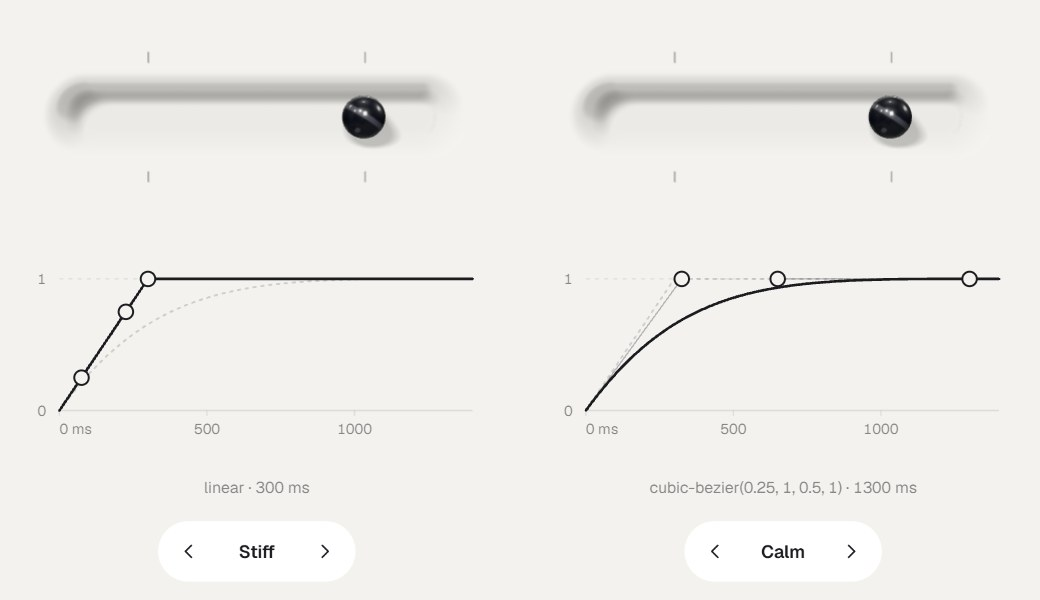
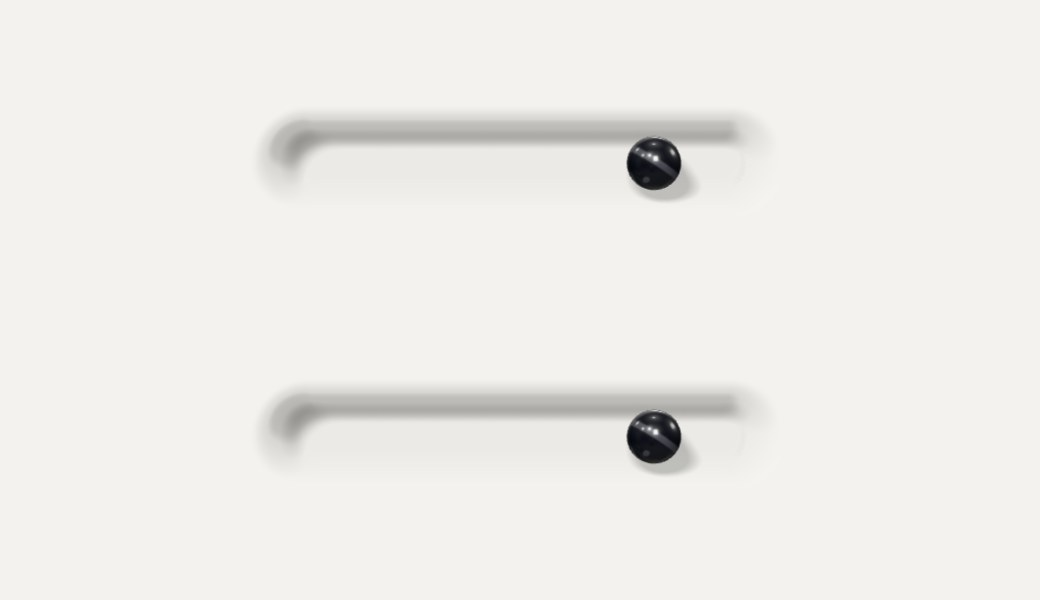
Lab: Easing - the two motions now one under the other with nothing else on the stage (no pills, arrows or tick marks): a ball in a soft groove each, Play and loop below; a Curves card at the side holds each one's preset (Stiff, Snappy, Bounce, Calm, Custom after an edit), its curve with handles on o

diff --git a/lab-board/pieces/easing/index.html b/lab-board/pieces/easing/index.html
@@ -10,9 +10,10 @@
 <link href="https://fonts.googleapis.com/css2?family=Geist:wght@400..700&display=swap" rel="stylesheet">
 <link rel="stylesheet" href="../../shared/lab-ui.css?v=21">
 <style>
-  /* Two curves side by side, to see the difference. Each column: a ball rolling on a rail (real 3D, three.js), the curve under it
-     (value over time on a time axis both share, the neighbour's curve faint behind) and a preset pill: Stiff, Snappy, Bounce, Calm,
-     and Custom once you grab the curve. One Play runs both at once. The timed curves are cubic-beziers with a length: two handles
+  /* Two motions one under the other, to see the difference: each a ball in a soft groove (real 3D, three.js), nothing else on the
+     stage. The Curves card at the side holds the rest: each one's preset (Stiff, Snappy, Bounce, Calm, and Custom once you grab its
+     curve), the curve itself (value over time on a time axis both share, the neighbour faint behind), its numbers and Copy CSS. One
+     Play runs both at once. The timed curves are cubic-beziers with a length: two handles
      and an end you drag for the time; the spring has one handle on its peak (up and down: bounce; sideways: speed). */
   :root { --bg: #f3f2ee; --ink: #1b1c20; --muted: rgba(27,28,32,.5); --line: rgba(27,28,32,.1); --field: rgba(20,20,20,.05); --ease: cubic-bezier(.22,.61,.36,1); --k: 1; }
   * { box-sizing: border-box; -webkit-tap-highlight-color: transparent; }
@@ -28,13 +29,12 @@
   body.dark .back, body.dark .mode { background: #1c1c1f; color: #f2f2f0; }
   body.dark .mode button { color: rgba(255,255,255,.5); } body.dark .mode button[aria-checked=true] { background: #f2f2f0; color: #1b1c20; }
 
-  /* the rig: two columns at a fixed size, scaled to the window (--k); on a tall narrow screen one above the other */
-  .rig { position: fixed; left: 50%; top: calc(50% - 30px); translate: -50% -50%; scale: var(--k); display: grid; grid-template-columns: 360px 360px; gap: 40px; }
-  body.stack .rig { grid-template-columns: 360px; gap: 24px; }
-  .col { display: flex; flex-direction: column; align-items: center; }
+  /* the rig: the two grooves one under the other, nothing else, at a fixed size scaled to the window (--k) */
+  .rig { position: fixed; left: 50%; top: calc(50% - 30px); translate: -50% -50%; scale: var(--k); display: grid; grid-template-columns: 360px; gap: 16px; transition: left var(--morph); }
+  .col { display: flex; flex-direction: column; align-items: center; gap: 6px; }
   .scene { position: relative; width: 360px; height: 150px; cursor: pointer; }
   .scene canvas { display: block; width: 360px; height: 150px; }   /* (clear: the groove is cut into the page itself) */
-  .chart { display: block; width: 360px; height: 190px; overflow: visible; touch-action: none; user-select: none; -webkit-user-select: none; }
+  .chart { display: block; width: 100%; height: auto; overflow: visible; touch-action: none; user-select: none; -webkit-user-select: none; }
   .chart .guide { stroke: var(--line); stroke-width: 1; fill: none; } .chart .guide.one { stroke-dasharray: 3 4; }
   .chart text { fill: var(--muted); font: 11px var(--lab-font); font-variant-numeric: tabular-nums; }
   .chart .curve { stroke: var(--ink); stroke-width: 2; fill: none; stroke-linecap: round; stroke-linejoin: round; }
@@ -43,25 +43,45 @@
   .chart .h { cursor: grab; outline: none; } .chart .h .hit { fill: transparent; } .chart .h .ring { fill: var(--bg); stroke: var(--ink); stroke-width: 1.5; transition: r .18s var(--ease); }
   .chart .h:hover .ring, .chart .h:focus-visible .ring, .chart .h.on .ring { r: 7.5px; } .chart .h.on { cursor: grabbing; } .chart .h:focus-visible .ring { stroke-width: 2.5; }
   .chart .tdot { fill: var(--ink); } .chart .tline { stroke: var(--ink); stroke-opacity: .16; stroke-width: 1; }
-  .foot { display: flex; align-items: center; justify-content: center; gap: 8px; height: 28px; margin: 2px 0 12px; }
-  .spec { font-size: 12px; color: var(--muted); white-space: nowrap; font-variant-numeric: tabular-nums; }
+  .foot { display: flex; align-items: center; justify-content: space-between; gap: 10px; margin: 0 0 6px; }
+  .spec { font-size: 12px; line-height: 1.4; color: var(--muted); font-variant-numeric: tabular-nums; }
+  .copy { flex: none; }
   .copy { height: 24px; padding: 0 9px; border: 0; border-radius: 999px; background: var(--field); color: var(--ink); font: 500 11.5px var(--lab-font); cursor: pointer; transition: background .2s; }
   .copy:hover { background: rgba(20,20,20,.09); } body.dark .copy:hover { background: rgba(255,255,255,.12); }
   /* Play both, and beside it the loop switch (there and back, a beat at each end, until it is switched off) */
-  .ctrl { position: fixed; left: 50%; bottom: calc(22px + env(safe-area-inset-bottom)); translate: -50% 0; z-index: 4; display: flex; gap: 8px; }
+  .ctrl { position: fixed; left: 50%; bottom: calc(22px + env(safe-area-inset-bottom)); translate: -50% 0; z-index: 4; display: flex; gap: 8px; transition: left var(--morph); }
   .loop { display: grid; place-items: center; width: 46px; height: 46px; padding: 0; border: 0; border-radius: 999px; background: #fff; color: #1b1c20; cursor: pointer; transition: background .25s, color .25s, scale .25s var(--ease); }
   .loop:active { scale: .93; } .loop svg { width: 19px; height: 19px; } .loop[aria-pressed=true] { background: var(--ink); color: var(--bg); }
   body.dark .loop { background: #1c1c1f; color: #f2f2f0; } body.dark .loop[aria-pressed=true] { background: var(--ink); color: var(--bg); }
   .play { display: flex; align-items: center; gap: 9px; height: 46px; padding: 0 22px 0 18px; border: 0; border-radius: 999px;
     background: var(--ink); color: var(--bg); font: 600 14px var(--lab-font); cursor: pointer; transition: scale .25s var(--ease); }
   .play:active { scale: .95; } .play svg { width: 15px; height: 15px; }
-  body.bare .back, body.bare .mode, body.bare .ctrl, body.bare .copy { display: none; } body.bare .rig { top: 50%; }
+  /* Curves: a card beside the stage (lab-ui soft) with the two charts, their numbers and Copy CSS; the stage moves aside */
+  :root { --morph: .55s cubic-bezier(.3,1.12,.4,1); }
+  .tune { position: fixed; top: 16px; right: 16px; z-index: 6; display: flex; align-items: center; gap: 9px; height: 46px; padding: 0 20px 0 16px; border: 0; border-radius: 999px; background: #fff; color: #1b1c20; font: 600 14px var(--lab-font); cursor: pointer; transition: transform .2s var(--ease), opacity .2s; }
+  .tune:hover { transform: translateY(-1px); } .tune svg { width: 19px; height: 19px; } body.tuning .tune { opacity: 0; pointer-events: none; } body.dark .tune { background: #1c1c1f; color: #f2f2f0; }
+  .panel { position: fixed; top: 16px; right: 16px; bottom: 16px; width: 340px; z-index: 5; display: flex; flex-direction: column; overflow: auto; overscroll-behavior: contain; padding: 0 20px 14px; --ui-pad: 20px;
+    font-family: var(--lab-font); border-radius: 26px; border: 1px solid var(--ui-card-line, rgba(20,20,20,.08)); opacity: 0; translate: 24px 0; visibility: hidden;
+    transition: translate var(--morph), opacity .3s, visibility 0s .55s; }
+  body.tuning .panel { opacity: 1; translate: 0 0; visibility: visible; transition: translate var(--morph), opacity .35s .08s; }
+  .panel::-webkit-scrollbar { width: 0; }
+  .ph { position: sticky; top: 0; z-index: 3; display: flex; align-items: flex-start; justify-content: space-between; gap: 16px; margin: 0 -20px; padding: 22px 20px 6px; background: var(--ui-bg); }
+  .ph h2 { margin: 0; font-size: 17px; font-weight: 600; letter-spacing: -.01em; line-height: 1.2; } .ph p { margin: 10px 0 0; font-size: 13px; line-height: 1.45; color: var(--ui-muted); }
+  .pc { flex: none; width: 32px; height: 32px; margin: -4px -6px 0 0; display: grid; place-items: center; border: 0; border-radius: 999px; background: transparent; color: var(--ui-ink); cursor: pointer; transition: background .2s; } .pc:hover { background: var(--ui-field); } .pc svg { width: 18px; height: 18px; }
+  .pcol h3 { margin: 18px 0 2px; font-size: 14px; font-weight: 600; }
+  .pcol + .pcol { border-top: 1px solid var(--line); margin-top: 8px; }
+  .mode { transition: left var(--morph); }
+  @media (min-width: 761px) { body.tuning .rig, body.tuning .ctrl, body.tuning .mode { left: calc(50% - 176px); } }
+  @media (max-width: 760px) { .panel { top: auto; left: 8px; right: 8px; bottom: 8px; width: auto; max-height: 60vh; translate: 0 calc(100% + 16px); } body.tuning .panel { translate: 0 0; } body.tuning .ctrl { display: none; } }
+  body.bare .back, body.bare .mode, body.bare .ctrl, body.bare .tune, body.bare .panel { display: none; } body.bare .rig { top: 50%; }
 </style>
 </head>
 <body>
 <a class="back" href="../../" aria-label="Back to the lab" title="Back to the lab"><svg viewBox="0 0 24 24" fill="none" stroke="currentColor" stroke-width="1.75" stroke-linecap="round" stroke-linejoin="round" aria-hidden="true"><path d="M19 12H5M11 18l-6-6 6-6"/></svg></a>
 <div class="mode lab-seg" id="mode" role="radiogroup" aria-label="Light or dark"><button type="button" role="radio" data-m="light">Light</button><button type="button" role="radio" data-m="dark">Dark</button></div>
+<button class="tune" id="tune" type="button" aria-controls="panel" aria-expanded="false"><svg viewBox="0 0 24 24" fill="none" stroke="currentColor" stroke-width="1.75" stroke-linecap="round" stroke-linejoin="round" aria-hidden="true"><path d="M3 20c4 0 5-16 9-16s5 16 9 16"/></svg>Curves</button>
 <main class="rig" id="rig"></main>
+<aside class="panel lab-ui soft" id="panel" aria-label="Curves"><header class="ph"><div><h2>Curves</h2><p>Value over time, both on one time axis. Grab a handle to make your own.</p></div><button class="pc" id="pclose" type="button" aria-label="Close"><svg viewBox="0 0 24 24" fill="none" stroke="currentColor" stroke-width="1.75" stroke-linecap="round" aria-hidden="true"><path d="M6 6l12 12M18 6L6 18"/></svg></button></header><div id="charts"></div></aside>
 <div class="ctrl"><button class="play" id="play" type="button" title="Play both (Space)"><svg viewBox="0 0 24 24" fill="currentColor" aria-hidden="true"><path d="M8 5.5v13a1 1 0 0 0 1.5.86l10.4-6.5a1 1 0 0 0 0-1.72L9.5 4.64A1 1 0 0 0 8 5.5z"/></svg>Play both</button><button class="loop" id="loop" type="button" aria-pressed="false" aria-label="Loop" title="Loop"><svg viewBox="0 0 24 24" fill="none" stroke="currentColor" stroke-width="1.75" stroke-linecap="round" stroke-linejoin="round" aria-hidden="true"><path d="M17 2.5l3 3-3 3"/><path d="M4 11.5v-1a5 5 0 0 1 5-5h11"/><path d="M7 21.5l-3-3 3-3"/><path d="M20 12.5v1a5 5 0 0 1-5 5H4"/></svg></button></div>
 <script src="../../shared/lab-ui.js?v=20"></script>
 <script type="importmap">
@@ -110,21 +130,17 @@ function css(c) { if (c.kind === 'bezier') { const [a, b, d, e] = c.b; return `t
 const NS = 'http://www.w3.org/2000/svg';
 const X0 = 30, X1 = 344, Y0 = 168, Y1 = 68, U = Y0 - Y1;   // (the plot: 0 ms → X0, the shared axis → X1; value 0 → Y0, 1 → Y1)
 const cols = [0, 1].map(i => { const el = document.createElement('section'); el.className = 'col'; el.innerHTML = `
-  <div class="scene" title="Play both"><canvas></canvas></div>
+  <div class="scene" title="Play both"><canvas></canvas></div>`; $('rig').appendChild(el);
+  const pc = document.createElement('section'); pc.className = 'pcol'; pc.innerHTML = `<h3 class="pt">${i ? 'Bottom' : 'Top'}</h3><div class="pseg"></div>
   <svg class="chart" viewBox="0 20 360 190" aria-label="Curve ${i ? 'B' : 'A'}">
     <line class="guide" x1="${X0}" y1="${Y0}" x2="${X1}" y2="${Y0}"/><line class="guide one" x1="${X0}" y1="${Y1}" x2="${X1}" y2="${Y1}"/>
     <text x="${X0 - 10}" y="${Y0 + 4}" text-anchor="end">0</text><text x="${X0 - 10}" y="${Y1 + 4}" text-anchor="end">1</text>
     <g class="ticks"></g><path class="ghost"/><path class="curve"/><g class="arms"></g>
     <line class="tline" y1="0" y2="${Y0}"/><circle class="tdot" r="4.5"/><g class="hs"></g>
   </svg>
-  <div class="foot"><span class="spec"></span><button class="copy" type="button">Copy CSS</button></div>
-  <div class="vars" role="group" aria-label="Preset ${i ? 'B' : 'A'}">
-    <button class="pv" type="button" aria-label="Previous preset"><svg viewBox="0 0 24 24" fill="none" stroke="currentColor" stroke-width="1.75" stroke-linecap="round" stroke-linejoin="round" aria-hidden="true"><path d="M15 6l-6 6 6 6"/></svg></button>
-    <span class="vn"></span>
-    <button class="nx" type="button" aria-label="Next preset"><svg viewBox="0 0 24 24" fill="none" stroke="currentColor" stroke-width="1.75" stroke-linecap="round" stroke-linejoin="round" aria-hidden="true"><path d="M9 6l6 6-6 6"/></svg></button>
-  </div>`; $('rig').appendChild(el);
-  const g = s => el.querySelector(s);
-  return { el, svg: g('.chart'), curve: g('.curve'), ghost: g('.ghost'), arms: g('.arms'), hs: g('.hs'), ticks: g('.ticks'), tdot: g('.tdot'), tline: g('.tline'), spec: g('.spec'), vars: g('.vars'), nm: g('.vn'), canvas: g('canvas'), scene: g('.scene'), copy: g('.copy') }; });
+  <div class="foot"><span class="spec"></span><button class="copy" type="button">Copy CSS</button></div>`; $('charts').appendChild(pc);
+  const g = s => el.querySelector(s) || pc.querySelector(s);
+  return { el, svg: g('.chart'), curve: g('.curve'), ghost: g('.ghost'), arms: g('.arms'), hs: g('.hs'), ticks: g('.ticks'), tdot: g('.tdot'), tline: g('.tline'), spec: g('.spec'), seg: g('.pseg'), canvas: g('canvas'), scene: g('.scene'), copy: g('.copy'), pt: g('.pt') }; });
 
 // (the time axis both charts share, rounded up; frozen while a handle is held so the curve under the finger does not slide)
 let axis = 1000, frozen = false;
@@ -148,11 +164,11 @@ function drawChart(i) { const C = cols[i], c = cur(i);
       node('circle', { class: 'hit', r: 16 }, n); node('circle', { class: 'ring', r: 5.5 }, n); }
     n.setAttribute('transform', `translate(${tx(h.ms).toFixed(1)} ${ty(h.v).toFixed(1)})`); n.setAttribute('aria-valuetext', spec(c)); });
   C.hs.querySelectorAll('.h').forEach(n => { if (!H.some(h => h.id === n.dataset.h)) n.remove(); });
-  C.spec.textContent = spec(c); C.nm.textContent = c.name; }
+  C.spec.textContent = spec(c); }
 function drawAll() { if (!frozen) axis = niceAxis(); drawChart(0); drawChart(1); drawTrace(performance.now()); }
 
 // ---------- grabbing a curve: the first move makes the column's own copy (Custom), so the preset stays as it was ----------
-function own(i) { const col = S.cols[i]; if (col.key !== 'custom') { col.custom = { ...structuredClone(PRESETS[col.key]), name: 'Custom' }; col.key = 'custom'; } return col.custom; }
+function own(i) { const col = S.cols[i]; if (col.key !== 'custom') { col.custom = { ...structuredClone(PRESETS[col.key]), name: 'Custom' }; col.key = 'custom'; presetSeg(i); } return col.custom; }
 function moveHandle(i, id, ms, v) { const c = own(i);
   if (id === 'peak') fromPeak(c, ms, v);
   else if (id === 'end') c.ms = clamp(Math.round(ms / 10) * 10, 60, 3000);
@@ -170,11 +186,11 @@ cols.forEach((C, i) => {
     const m = e.shiftKey ? 10 : 1, now = handles(cur(i)).find(x => x.id === h.dataset.h); moveHandle(i, now.id, now.ms + d[0] * 10 * m, now.v + d[1] * .01 * m); });
   C.copy.onclick = () => { navigator.clipboard?.writeText(css(cur(i))); C.copy.textContent = 'Copied'; setTimeout(() => C.copy.textContent = 'Copy CSS', 1200); };
   C.scene.onclick = () => play(false);
-  // (the preset pill: the four, and Custom once the curve was grabbed)
-  const names = () => [...KEYS.map(k => PRESETS[k].name), ...(S.cols[i].custom ? ['Custom'] : [])], keyOf = n => n === 'Custom' ? 'custom' : KEYS.find(k => PRESETS[k].name === n);
-  const pick = n => { S.cols[i].key = keyOf(n); save(); drawAll(); play(true); };
-  C.V = LabUI.variants(C.vars, { prev: C.el.querySelector('.pv'), next: C.el.querySelector('.nx'), name: C.nm, items: names, current: () => cur(i).name,
-    onStep: d => { const l = names(); pick(l[(l.indexOf(cur(i).name) + d + l.length) % l.length]); }, onPick: pick }); });
+  presetSeg(i); });
+// (the preset, in the card above its chart: the four, and Custom once the curve was grabbed; rebuilt when Custom appears)
+function presetSeg(i) { const C = cols[i]; C.seg.innerHTML = '';
+  const options = [...KEYS.map(k => [k, PRESETS[k].name]), ...(S.cols[i].custom ? [['custom', 'Custom']] : [])];
+  C.segKeys = options.length; LabUI.seg(C.seg, { label: 'Preset', options, value: S.cols[i].key, onChange: k => { S.cols[i].key = k; save(); drawAll(); play(true); } }); }
 
 // ---------- playing: both columns from one clock; there, and on the next, back ----------
 let t0 = -1e9, dir = 0;   // (dir 1: going to the end; the ball's value is the progress, or one minus it on the way back)
@@ -202,7 +218,7 @@ addEventListener('keydown', e => { if (e.code === 'Space' && !e.target.closest('
 // rounded channel with no edge anywhere (its slope is zero at the wall and at the bottom; the ends round off by themselves). Its
 // shading is computed per point and baked in: how it turns to the light, how deep it is, and a soft shadow of its own upper lip,
 // marched along the light; the flat wall comes out exactly the page's colour, so there is no seam. A glossy ball sits in it, lit
-// for real, throwing a very soft shadow. Small scored ticks above and below mark start and end; the groove runs on past them,
+// for real, throwing a very soft shadow. The groove runs on past where the ball starts and stops,
 // room for a spring to overshoot ----------
 const scenes = [];
 let THREE = null;
@@ -252,9 +268,6 @@ function makeScene(canvas) {
   const surf = new THREE.Mesh(geo, new THREE.MeshBasicMaterial({ vertexColors: true, toneMapped: false }));
   const skin = new THREE.Mesh(geo, new THREE.ShadowMaterial({ opacity: .2, polygonOffset: true, polygonOffsetFactor: -1, polygonOffsetUnits: -1 })); skin.receiveShadow = true;
   scene.add(surf, skin);
-  // (the ticks: short scores on the wall above and below the groove, at start and at end)
-  const tickMat = new THREE.MeshBasicMaterial({ transparent: true, opacity: .28, depthWrite: false }), tg = new THREE.PlaneGeometry(.02, .12);
-  for (const x of [XA, XB]) for (const y of [-1, 1]) { const t = new THREE.Mesh(tg, tickMat); t.position.set(x, y * (WO + .14), .002); scene.add(t); }
   // (the ball: in the groove against its bottom; it rolls about the axis pointing at you)
   const ballMat = new THREE.MeshPhysicalMaterial({ roughness: .28, clearcoat: 1, clearcoatRoughness: .06, metalness: 0 });
   const ball = new THREE.Mesh(new THREE.SphereGeometry(R, 64, 40), ballMat); ball.castShadow = true; ball.position.set(XA, 0, R - DP + .004); scene.add(ball);
@@ -262,22 +275,25 @@ function makeScene(canvas) {
   const S3 = {
     set(nv) { v = nv; const x = XA + (XB - XA) * roomy(v); ball.position.x = x; ball.rotation.z = -(x - XA) / R; renderer.render(scene, cam); },
     theme(dark) { shade(geo, dark); sky.groundColor.set(dark ? 0x0e0e10 : 0xf3f2ee); sun.intensity = dark ? 2.2 : 1.6;
-      tickMat.color.set(dark ? 0xf2f2f0 : 0x1b1c20); tickMat.opacity = dark ? .3 : .28; skin.material.opacity = dark ? .55 : .2;
+      skin.material.opacity = dark ? .55 : .2;
       ballMat.map?.dispose(); ballMat.map = ballTexture(dark); ballMat.needsUpdate = true; S3.set(v); },
     size(px) { renderer.setPixelRatio(px); renderer.setSize(360, 150, false); S3.set(v); } };
   return S3; }
 if (THREE) cols.forEach(C => { try { scenes.push(makeScene(C.canvas)); } catch { } });
 
 // ---------- light and dark, the fit ----------
-function setMode(m) { S.mode = m; save(); const dark = m === 'dark'; document.body.classList.toggle('dark', dark); cols.forEach(C => C.vars.classList.toggle('dark', dark)); scenes.forEach(s => s.theme(dark));
+function setMode(m) { S.mode = m; save(); const dark = m === 'dark'; document.body.classList.toggle('dark', dark); $('panel').classList.toggle('dark', dark); scenes.forEach(s => s.theme(dark));
   document.querySelectorAll('#mode button').forEach(b => b.setAttribute('aria-checked', String(b.dataset.m === m))); document.querySelector('meta[name=theme-color]').content = dark ? '#0e0e10' : '#f3f2ee'; drawAll(); }
 document.querySelectorAll('#mode button').forEach(b => b.onclick = () => setMode(b.dataset.m));
-function fit() { const W = innerWidth, H = innerHeight, bare = document.body.classList.contains('bare'), stack = !bare && W < 640 && H > W;
-  document.body.classList.toggle('stack', stack);
-  const rw = stack ? 360 : 760, rh = stack ? 2 * 434 + 24 : 434;
-  const k = bare ? Math.min(W / (rw + 30), H / (rh + 10)) : clamp(Math.min((W - 32) / rw, (H - 150) / rh), .35, 1.5);
+// (the rows fit what is left of the window; with Curves open on a wide screen, what is left beside the card)
+function fit() { const bare = document.body.classList.contains('bare'), side = document.body.classList.contains('tuning') && innerWidth > 760, W = innerWidth - (side ? 368 : 0), H = innerHeight;
+  const rw = 360, rh = 2 * 150 + 16;
+  const k = bare ? Math.min(W / (rw + 30), H / (rh + 48)) : clamp(Math.min((W - 40) / rw, (H - 170) / rh), .35, 1.6);
   document.documentElement.style.setProperty('--k', k.toFixed(3)); scenes.forEach(s => s.size(Math.min(3, (devicePixelRatio || 1) * k))); }
 addEventListener('resize', fit);
+function openPanel(on) { document.body.classList.toggle('tuning', on); $('tune').setAttribute('aria-expanded', String(on)); fit(); }
+$('tune').onclick = () => openPanel(true); $('pclose').onclick = () => openPanel(false);
+addEventListener('keydown', e => { if (e.key === 'Escape' && document.body.classList.contains('tuning')) openPanel(false); });
 LabUI.segThumb($('mode'));
 
 // ---------- the board's box: ?thumb=1 the still (Snappy and Bounce, both arrived), ?demo=1 the live preview: pairs of presets
@@ -287,7 +303,7 @@ setMode(S.mode); fit(); drawAll(); scenes.forEach((s, i) => s.set(0)); $('loop')
 if (q.has('thumb')) { t0 = performance.now() - 5000; dir = 1; drawTrace(performance.now()); scenes.forEach((s, i) => s.set(1)); }
 if (q.has('demo')) { const wait = ms => new Promise(r => setTimeout(r, ms)), PAIRS = [['stiff', 'calm'], ['snappy', 'bounce'], ['stiff', 'bounce'], ['snappy', 'calm']];
   await document.fonts.ready; await wait(400);
-  for (let k = 0; ; k++) { const [a, b] = PAIRS[k % PAIRS.length]; S.cols[0].key = a; S.cols[1].key = b; drawAll(); cols.forEach(C => C.V.flash?.(1));
+  for (let k = 0; ; k++) { const [a, b] = PAIRS[k % PAIRS.length]; S.cols[0].key = a; S.cols[1].key = b; drawAll();
     const T = Math.max(msOf(cur(0)), msOf(cur(1)));
     dir = 0; play(false); await wait(T + 700); play(false); await wait(T + 700); } }
 </script>

diff --git a/lab-board/index.html b/lab-board/index.html
@@ -545,7 +545,7 @@ const CFG = {
 
 // ---------- content (placeholder data: Jarek's own experiments) ----------
 const PIECES = [
-  { slug:'easing', fresh:true, preview:'pieces/easing/?demo=1', variants:4, title:'Easing', what:'Two curves side by side, to see the difference: Stiff on the left, Calm on the right to begin with. Above each, seen head-on, a soft groove is pressed into the page, the wall easing into a rounded channel with no edge anywhere, shaded softly; a glossy ball rolls inside it with a blurred shadow, small scored ticks at start and end. Pick a preset for either (Stiff, Snappy, Bounce, Calm); one Play runs both at once on a shared time axis, the neighbour faint behind, and a loop runs them there and back until you stop it. Grab a curve to make your own: two handles and an end for a timed curve, the peak for a spring. Copy either as CSS.', year:'2026', kind:'interaction', live:'pieces/easing/', code:'https://github.com/vod123qwe/playground/tree/main/lab-board/pieces/easing', image:'thumbs/easing.jpg?v=6', words:['easing', 'spring', 'bezier', 'groove'], rect:{x:3120,y:60,w:520,h:300} },
+  { slug:'easing', fresh:true, preview:'pieces/easing/?demo=1', title:'Easing', what:'Two motions one under the other, to see the difference: Stiff above, Calm below to begin with. Each is a glossy ball rolling in a soft groove pressed into the page, seen head-on; nothing else on the stage. One Play runs both at once, and a loop runs them there and back until you stop it. The rest sits in a card at the side: each one’s preset (Stiff, Snappy, Bounce, Calm), its curve (value over time on one time axis, the neighbour faint behind) to grab and make your own, and Copy CSS.', year:'2026', kind:'interaction', live:'pieces/easing/', code:'https://github.com/vod123qwe/playground/tree/main/lab-board/pieces/easing', image:'thumbs/easing.jpg?v=8', words:['easing', 'spring', 'bezier', 'groove'], rect:{x:3120,y:60,w:520,h:300} },
   { slug:'multiselect', fresh:true, variants:6, title:'Multiselect', what:'A multiselect with pills, made to feel good under the hand. Tick a country and it flies out of the list into the field as a pill. One line: what does not fit hides behind a +N chip, and the pills slide left and right with a glide and a soft give at the ends (mouse, finger or touchpad). Grab a pill and throw it down, or tap its x: six ways for it to go (Classic, Fall, Split, Pop, Dust, Swirl). Everything moves on springs; a panel tunes softness, bounce, glide and gravity.', year:'2026', kind:'interaction', live:'pieces/multiselect/', code:'https://github.com/vod123qwe/playground/tree/main/lab-board/pieces/multiselect', image:'thumbs/multiselect.jpg', words:['pills', 'swipe', 'spring', 'throw'], rect:{x:3100,y:1380,w:520,h:390} },
   { slug:'ai-wave', fresh:true, title:'AI Wave', what:'The AirDrop wave, used to show an AI at work. On the screen of an assistant app, a wave of light runs out of the orb as it starts to think, bending everything it passes over like a lens, its edge split into a rainbow; softer waves follow while it speaks, and one runs in to it while it listens. Tap the screen to send a wave from anywhere. Three waves (AirDrop, Ripple, Glow) and a panel for speed, width, bend, rainbow and light. A draft.', year:'2026', kind:'interaction', live:'pieces/ai-wave/', code:'https://github.com/vod123qwe/playground/tree/main/lab-board/pieces/ai-wave', image:'thumbs/ai-wave.jpg?v=2', words:['ai', 'airdrop', 'wave', 'shader', 'lens'], rect:{x:3640,y:420,w:360,h:560} },
   { slug:'ai-blob', fresh:true, variants:11, title:'AI Blob', what:'A living orb for an AI assistant, made as one web component you can drop into any page. Eleven orbs drawn in shaders (liquid glass with light running through it, a soft glass melting into its own light, a clear glass halo with a flowing rim and a glowing core, glass vessels with a world inside: drops of liquid light, an aurora, liquid mercury; a silk colour cloud, a cosmic nebula with stars, a halftone of dots, a swarm of points, loops in 3D) and seven states that morph into one another: default, listening, speaking, thinking, connecting, error and muted. It can stand on a ground in perspective: muted, it sits down; awake, it stands up and floats over its shadow. Tap it to squeeze it, it pops in on start, moves to a built-in voice or your microphone, draws clean colour on light pages and glows on dark ones. Presets, fine tuning, palettes or one HCT seed colour, and the tag to copy.', year:'2026', kind:'interaction', live:'pieces/ai-blob/', code:'https://github.com/vod123qwe/playground/tree/main/lab-board/pieces/ai-blob', image:'thumbs/ai-blob.jpg?v=5', words:['ai', 'voice', 'shader', 'webgl', 'web component', 'states', 'depth'], rect:{x:3100,y:900,w:420,h:420} },

diff --git a/lab-board/pieces/easing/README.md b/lab-board/pieces/easing/README.md
@@ -1,12 +1,13 @@
 # Easing
 
-Kafel labu: dwie krzywe ruchu obok siebie, żeby zobaczyć różnicę. Na start po lewej Stiff, po prawej Calm.
+Kafel labu: dwa ruchy jeden pod drugim, żeby zobaczyć różnicę. Na start u góry Stiff, pod spodem Calm.
 
-**Kolumna** (lewa A, prawa B):
-- u góry scena 3D (three.js 0.186.1), widziana na wprost: strona to ściana, w którą wciśnięty jest miękki rowek. To jedna gładka powierzchnia (siatka nad całym kadrem): ściana płynnie przechodzi w zaokrąglony kanał, bez żadnej krawędzi (nachylenie zero przy ścianie i na dnie, końce zaokrąglają się same, `hgt`). Cieniowanie jest liczone dla każdego punktu i wypieczone (`shade`): zwrot do światła, głębokość i miękki cień górnej krawędzi (marsz promienia w stronę światła); płaska ściana wychodzi dokładnie w kolorze strony, więc nie ma szwu. Błyszcząca kulka leży w rowku, oświetlona naprawdę, z bardzo miękkim cieniem (VSM). Krótkie rysy nad i pod rowkiem oznaczają start i metę; rowek ciągnie się dalej, żeby przestrzał sprężyny miał miejsce (miękko ściśnięty w ten zapas);
-- pod nią wykres wartości w czasie: kropka biegnie po krzywej, blado w tle krzywa sąsiada; oba wykresy mają wspólną oś czasu, więc różnica w długości jest widoczna;
+**Scena** to tylko dwa rowki z kulkami (bez napisów, strzałek i znaczników), plus Play i pętla na dole. **Curves** (prawy górny róg) otwiera kartę z boku (`lab-ui soft`, scena odsuwa się w lewo; na telefonie wysuwa się od dołu): dla górnej (Top) i dolnej (Bottom) kulki przełącznik presetu (`LabUI.seg`, Custom dochodzi po edycji), wykres, liczby i „Copy CSS”. Esc albo × zamyka.
+
+**Wiersz** (górny A, dolny B):
+- u góry scena 3D (three.js 0.186.1), widziana na wprost: strona to ściana, w którą wciśnięty jest miękki rowek. To jedna gładka powierzchnia (siatka nad całym kadrem): ściana płynnie przechodzi w zaokrąglony kanał, bez żadnej krawędzi (nachylenie zero przy ścianie i na dnie, końce zaokrąglają się same, `hgt`). Cieniowanie jest liczone dla każdego punktu i wypieczone (`shade`): zwrot do światła, głębokość i miękki cień górnej krawędzi (marsz promienia w stronę światła); płaska ściana wychodzi dokładnie w kolorze strony, więc nie ma szwu. Błyszcząca kulka leży w rowku, oświetlona naprawdę, z bardzo miękkim cieniem (VSM). Rowek ciągnie się za miejsce startu i mety, żeby przestrzał sprężyny miał miejsce (miękko ściśnięty w ten zapas);
+- w karcie Curves wykres wartości w czasie: kropka biegnie po krzywej, blado w tle krzywa sąsiada; oba wykresy mają wspólną oś czasu, więc różnica w długości jest widoczna;
 - liczby krzywej i „Copy CSS” (`cubic-bezier` albo dla sprężyny `linear()` próbkowane z krzywej);
-- pasek presetów (`LabUI.variants`).
 
 **Presety:** Stiff (liniowo, 300 ms), Snappy (ease out cubic, 280 ms), Bounce (sprężyna, response 0,5 s, bounce 0,5), Calm (ease out quart, 1300 ms). Krzywe czasowe są zapisane jako `cubic-bezier` + czas (Stiff ma uchwyty na prostej, więc nadal jest liniowy).
 
